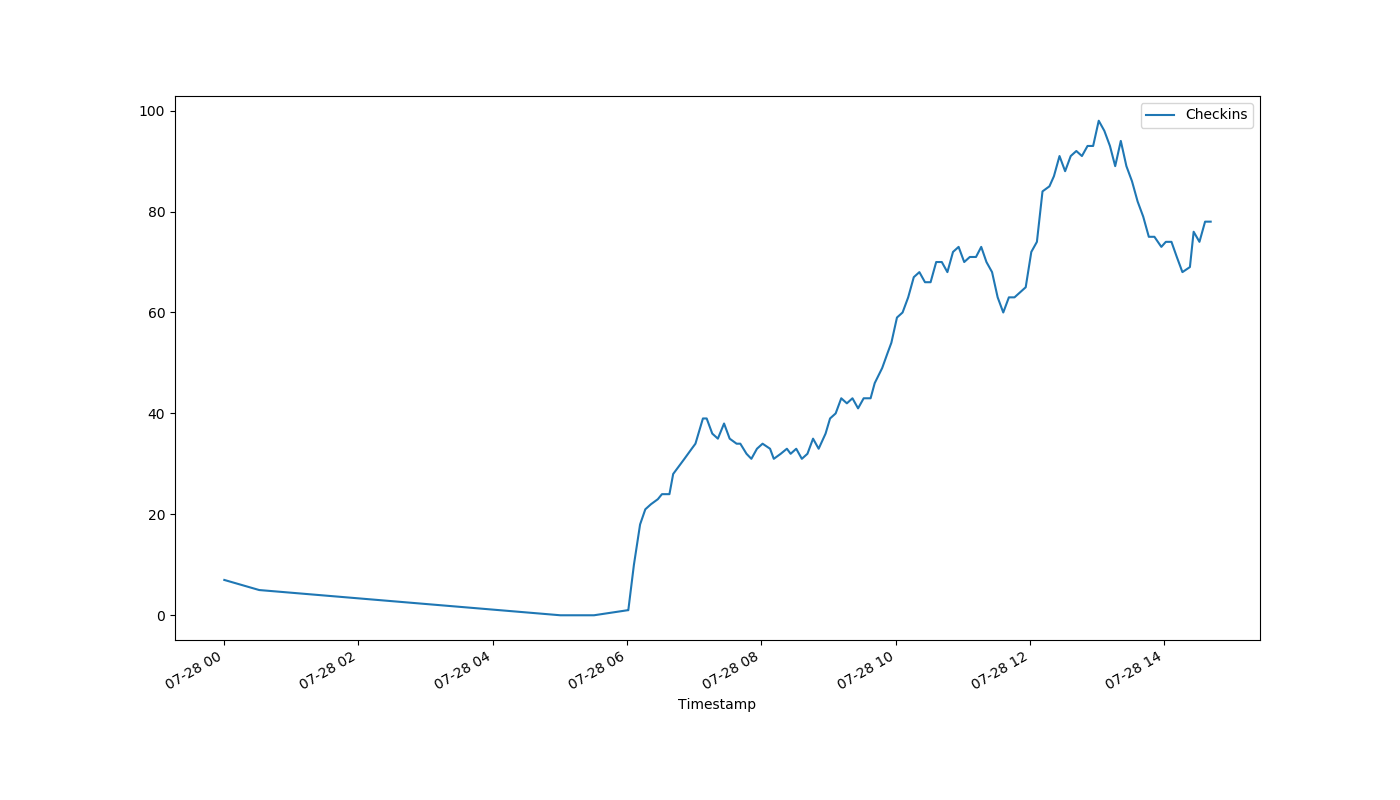
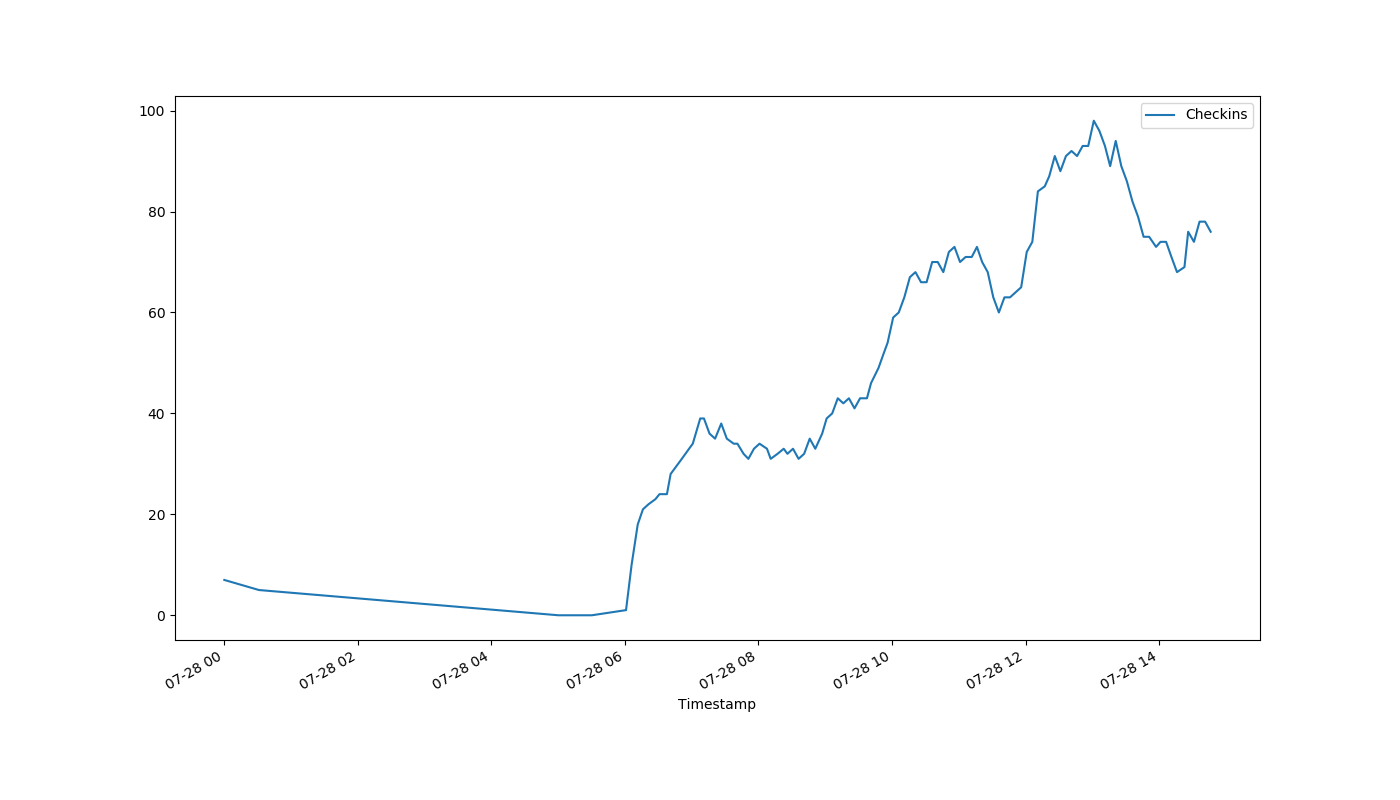
auto-Jul-28-14:48:37

diff --git a/index.html b/index.html
@@ -1,1 +1,1 @@
-<!DOCTYPE html><html><head><meta http-equiv="refresh" content="30"><link rel='stylesheet' href='holmcurrent.css'></head><body><p id='count'>78</p><div id='graph-wrap'><img id='graph' src='holmgraph-Jul-28.png'></div><p id='updated'>Last updated 14:42:06 / 14:41:18</p></body></html>
+<!DOCTYPE html><html><head><meta http-equiv="refresh" content="30"><link rel='stylesheet' href='holmcurrent.css'></head><body><p id='count'>76</p><div id='graph-wrap'><img id='graph' src='holmgraph-Jul-28.png'></div><p id='updated'>Last updated 14:47:06 / 14:46:18</p></body></html>
